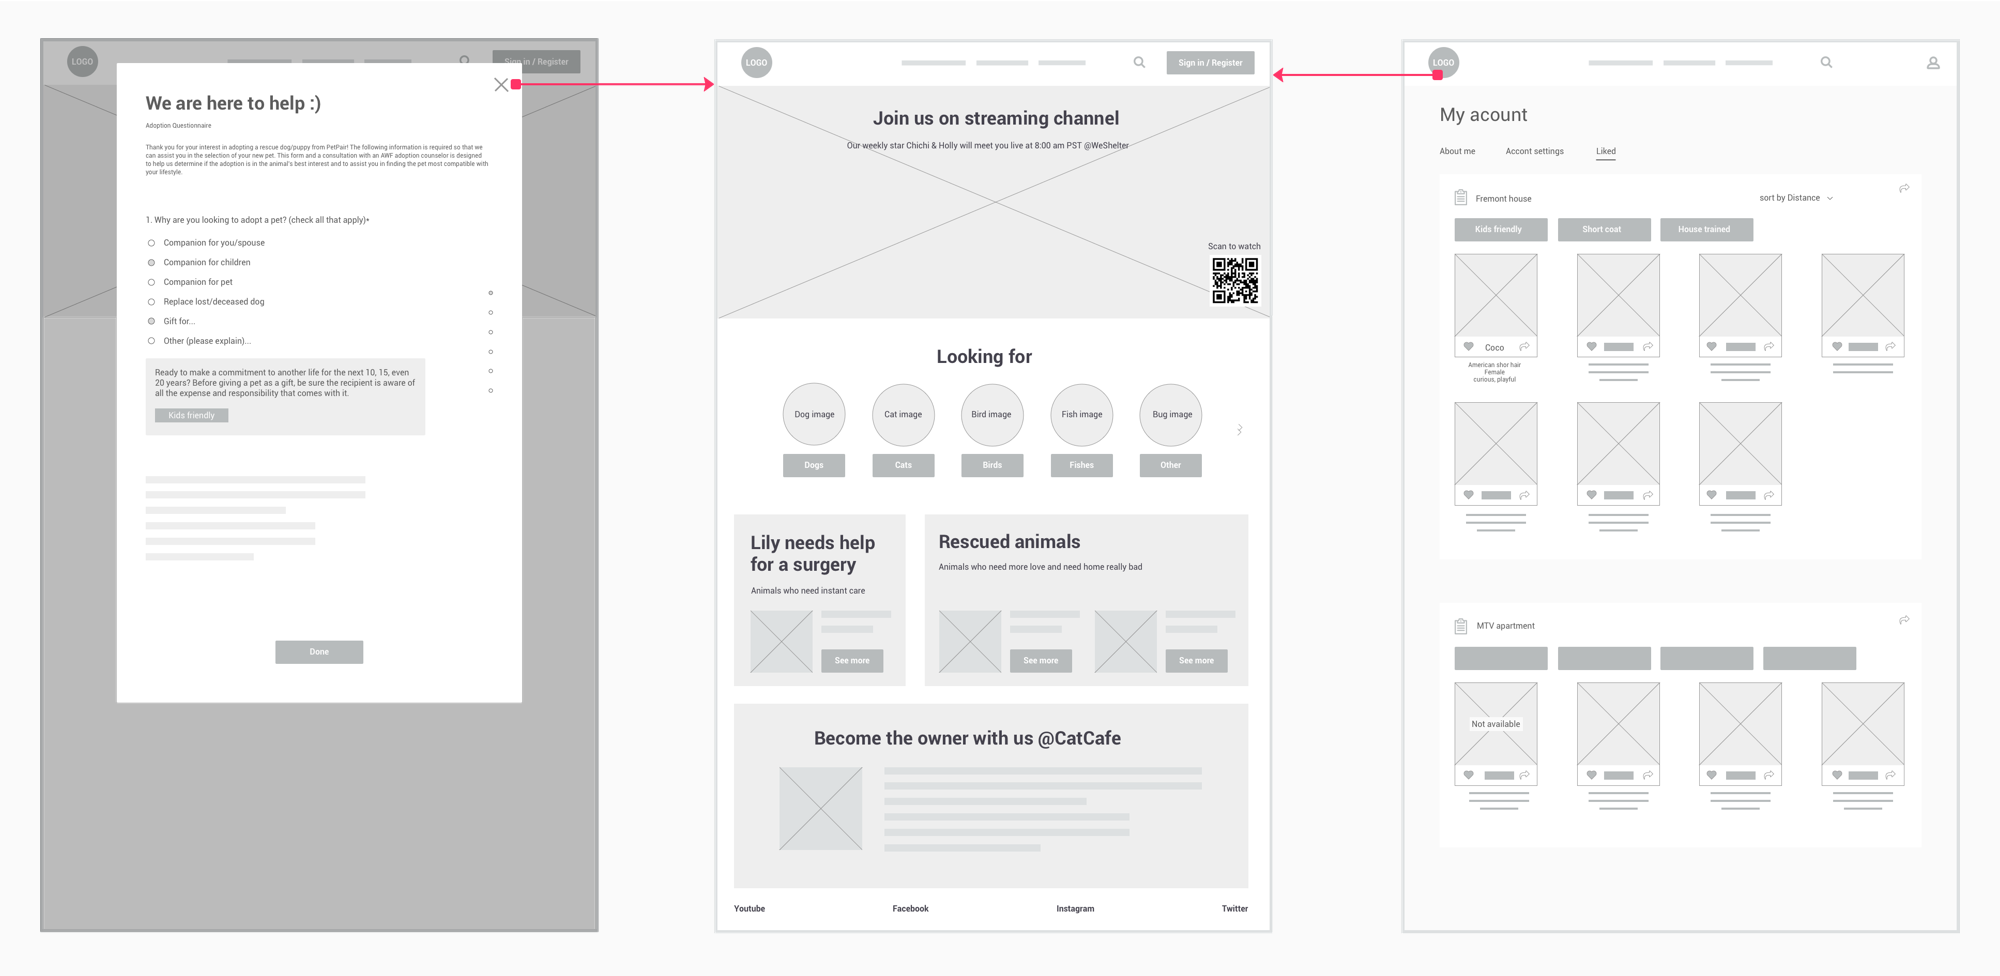
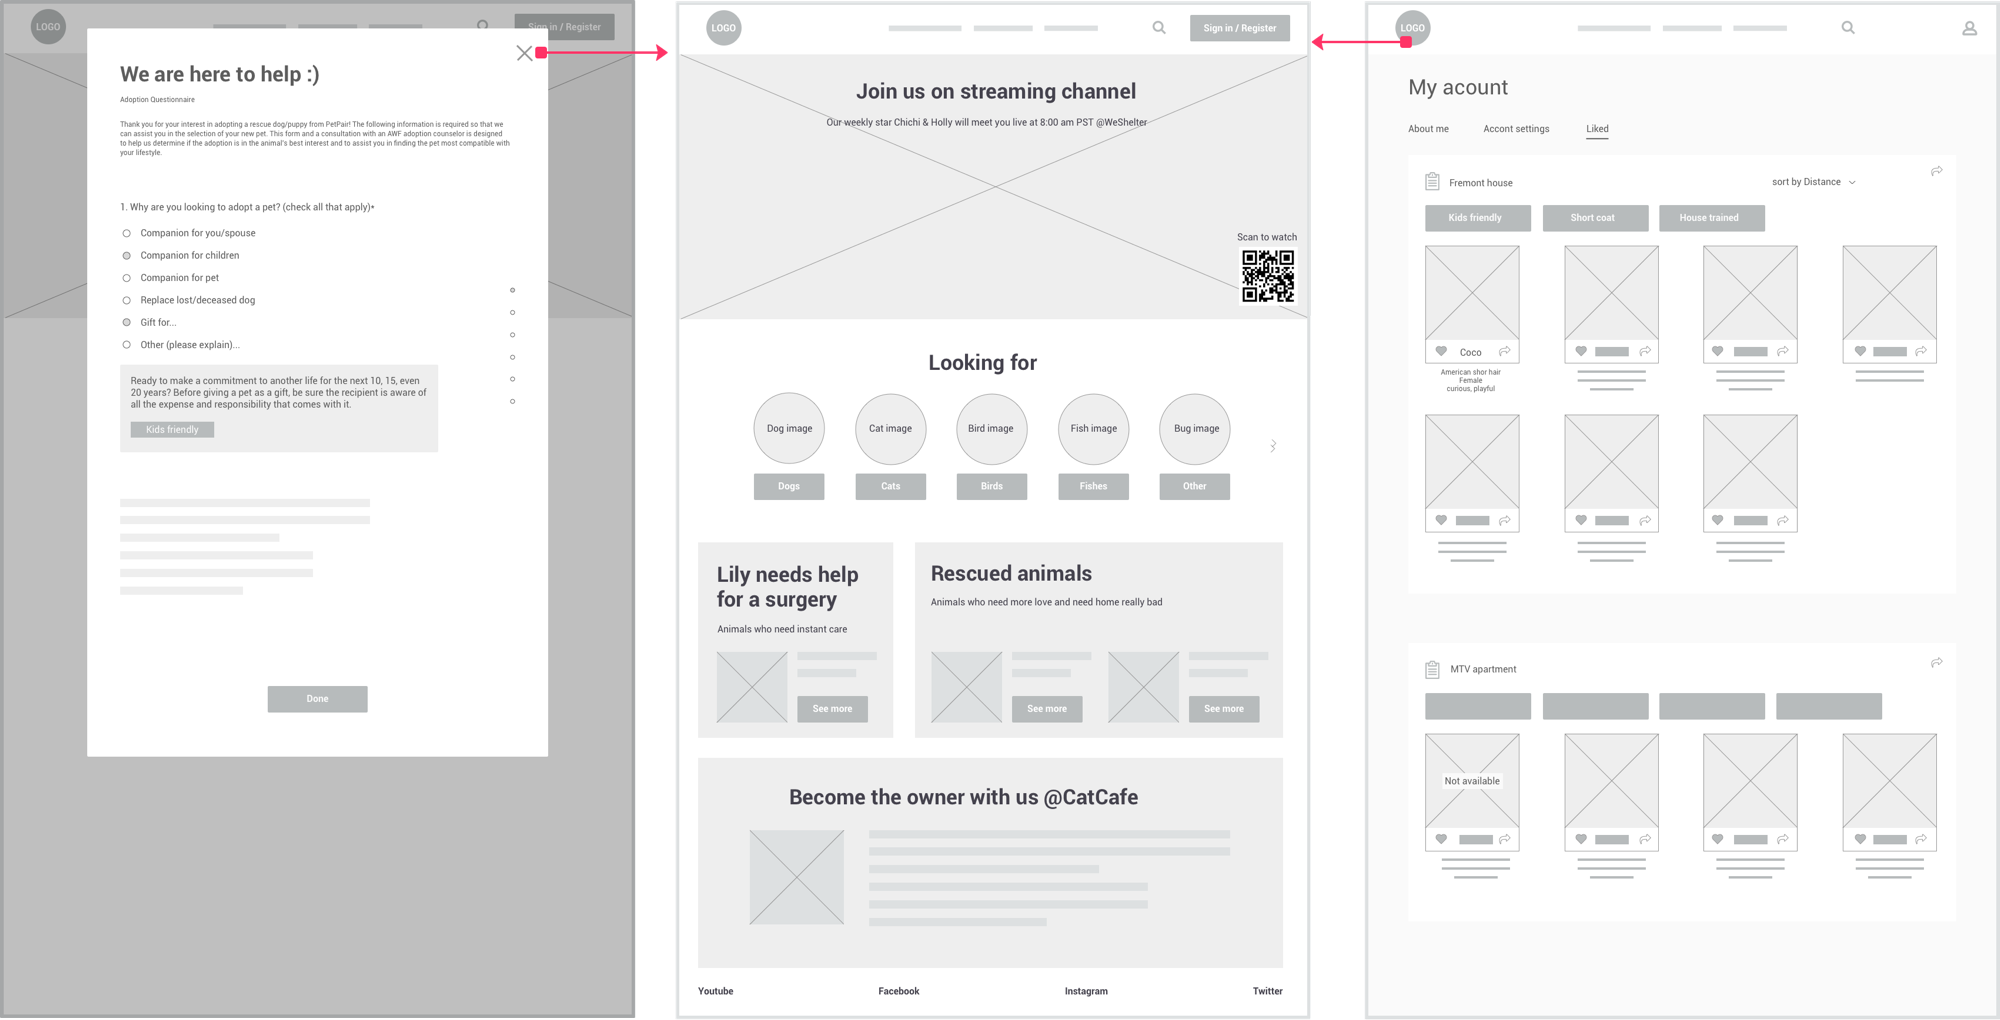
images updated

diff --git a/src/component/Work/petpair.js b/src/component/Work/petpair.js
@@ -199,7 +199,7 @@ Millions of animals are currently in shelters and foster homes awaiting adoption
                   src: 'petpair/triangle@3x.png',
                   alt: 'triangle',
                   style: {
-                    width: '700px'
+                    width: '3000px'
                   }
                 }}
               />
@@ -225,7 +225,7 @@ Millions of animals are currently in shelters and foster homes awaiting adoption
                 zoomImage={{
                   src: 'petpair/sketches@3x.png',
                   style: {
-                    width: '700px'
+                    width: '3000px'
                   }
                 }}
               />
@@ -251,7 +251,7 @@ Millions of animals are currently in shelters and foster homes awaiting adoption
                 zoomImage={{
                   src: 'petpair/how@3x.png',
                   style: {
-                    width: '700px'
+                    width: '3000px'
                   }
                 }}
               />
@@ -275,9 +275,9 @@ Millions of animals are currently in shelters and foster homes awaiting adoption
                   }
                 }}
                 zoomImage={{
-                  src: 'petpair/coco@x.png',
+                  src: 'petpair/coco@3x.png',
                   style: {
-                    width: '700px'
+                    width: '3000px'
                   }
                 }}
               />
@@ -303,7 +303,7 @@ Millions of animals are currently in shelters and foster homes awaiting adoption
                 zoomImage={{
                   src: 'petpair/nana@3x.png',
                   style: {
-                    width: '700px'
+                    width: '3000px'
                   }
                 }}
               />
@@ -370,7 +370,7 @@ Since it will not launch soon, I won’t dig into the metrics too much. But here
                 zoomImage={{
                   src: 'petpair/time@3x.png',
                   style: {
-                    width: '700px'
+                    width: '3000px'
                   }
                 }}
               />
@@ -394,7 +394,7 @@ Since it will not launch soon, I won’t dig into the metrics too much. But here
                 zoomImage={{
                   src: 'petpair/flow@3x.png',
                   style: {
-                    width: '700px'
+                    width: '3000px'
                   }
                 }}
               />
@@ -414,9 +414,9 @@ Since it will not launch soon, I won’t dig into the metrics too much. But here
                   }
                 }}
                 zoomImage={{
-                  src: 'petpair/wireframe-all@2x.png',
+                  src: 'petpair/wireframe-all@3x.png',
                   style: {
-                    width: '700px'
+                    width: '3000px'
                   }
                 }}
               />
@@ -427,21 +427,39 @@ Since it will not launch soon, I won’t dig into the metrics too much. But here
               <p>Walking through <HighLightOnVisible className="highlight-general">as a first time user</HighLightOnVisible> to the website —</p>
               <div className="display-tittle"> 1. Onboarding
               </div>
-              <div className="petpair-project-img-div-long hd">
+              <div className="petpair-project-img-div-long">
+              <div className="petpair-project-img-div-long-elements hd">
               <ImageZoom
                 image={{
-                  src: 'petpair/wireframe-1@2x.png',
+                  src: 'petpair/wireframe-1-1@2x.png',
                   style: {
                     width: '700px'
                   }
                 }}
                 zoomImage={{
-                  src: 'petpair/wireframe-1@2x.png',
+                  src: 'petpair/wireframe-1-1@3x.png',
+                  style: {
+                    width: '3000px'
+                  }
+                }}
+              />
+              </div>
+              <div className="petpair-project-img-div-long-elements hd">
+              <ImageZoom
+                image={{
+                  src: 'petpair/wireframe-1-2@2x.png',
                   style: {
                     width: '700px'
                   }
                 }}
+                zoomImage={{
+                  src: 'petpair/wireframe-1-2@3x.png',
+                  style: {
+                    width: '3000px'
+                  }
+                }}
               />
+              </div>
               </div>
               <p>After entering the homepage, a notification pops up from the bottom. It gives users the welcome and points out what the website is about. It explains why the user should do it and gives the expected time of doing the questionnaire which reduces the negative emotion to take it.</p>
               <p> The questionnaire floats above the website and background greys out to allow the user focus on the questionnaire. To get the user start without feeling overwhelmed, the questionnaire has several most important questions.(What and how many questions will be decided after more research) Each time the user selects an option, related filters are displayed and added to future search or tips are shown below. The instant interaction helps the user understand why the question exists and what to expect in the situation. All the questions should be straightforward, but if the user need some time to think and come back to the question later, s/he can use the process indicator to anchor to the question. </p>
@@ -456,21 +474,39 @@ Since it will not launch soon, I won’t dig into the metrics too much. But here
 
               <div className="display-tittle"> 2. Exploring
               </div>
-              <div className="petpair-project-img-div-long hd">
+              <div className="petpair-project-img-div-long">
+              <div className="petpair-project-img-div-long-elements hd">
               <ImageZoom
                 image={{
-                  src: 'petpair/wireframe-2@2x.png',
+                  src: 'petpair/wireframe-2-1@2x.png',
                   style: {
                     width: '700px'
                   }
                 }}
                 zoomImage={{
-                  src: 'petpair/wireframe-2@2x.png',
+                  src: 'petpair/wireframe-2-1@3x.png',
+                  style: {
+                    width: '3000px'
+                  }
+                }}
+              />
+              </div>
+              <div className="petpair-project-img-div-long-elements hd">
+              <ImageZoom
+                image={{
+                  src: 'petpair/wireframe-2-2@2x.png',
                   style: {
                     width: '700px'
                   }
                 }}
+                zoomImage={{
+                  src: 'petpair/wireframe-2-2@3x.png',
+                  style: {
+                    width: '3000px'
+                  }
+                }}
               />
+              </div>
               </div>
               <p>On the explore view, the filters created during the questionnaire are displayed. (Pet’s turn to select the user is done.) The user can also add more filters using the dropdown menu above. (Now it’s the user’s turn.) If the user is not sure about what filter s/he should add, s/he can click “not sure” button to take a more detailed questionnaire. Questions are sorted for different purpose: beginners, amateurs and pros. (A fuzzy search feature could be added as a list view menu in the future.) The filters allow the user to play around and save the results for the future. The user can change distance to refind the pets or change the sorting method to redisplay the pets. If there is no match or very few matches, some recommended pets are displayed since the user might be willing to compromise their filters to a certain extent.</p>
               <p> Each card shows the summary information of the pet, highlighting the characteristic. A video will be played after hovering on the pet profile picture, so the user will get a prominent idea about the shape, pattern, status of the pet. S/he can save the pet if s/he likes it.</p>
@@ -483,21 +519,39 @@ Since it will not launch soon, I won’t dig into the metrics too much. But here
 
               <div className="display-tittle"> 3. Collaborating
               </div>
-              <div className="petpair-project-img-div-long hd">
+              <div className="petpair-project-img-div-long">
+              <div className="petpair-project-img-div-long-elements hd">
               <ImageZoom
                 image={{
-                  src: 'petpair/wireframe-3@2x.png',
+                  src: 'petpair/wireframe-3-1@2x.png',
                   style: {
                     width: '700px'
                   }
                 }}
                 zoomImage={{
-                  src: 'petpair/wireframe-3@2x.png',
+                  src: 'petpair/wireframe-3-1@3x.png',
+                  style: {
+                    width: '3000px'
+                  }
+                }}
+              />
+              </div>
+              <div className="petpair-project-img-div-long-elements hd">
+              <ImageZoom
+                image={{
+                  src: 'petpair/wireframe-3-2@2x.png',
                   style: {
                     width: '700px'
                   }
                 }}
+                zoomImage={{
+                  src: 'petpair/wireframe-3-2@3x.png',
+                  style: {
+                    width: '3000px'
+                  }
+                }}
               />
+              </div>
               </div>
               <p>Each collection is under one questionnaire with specific filters. Half of my interviewers have considered to have another pet in the future. If they move from an apartment to an house, their considerations will change, however, with the same account, they can edit filters from the past or plan to adopt for the future.</p>
               <p>The user can share collections via email, everyone who will live with the pet has the right and responsibility to know about it. The final vote result will show on the user’s account.</p>
@@ -518,9 +572,9 @@ Since it will not launch soon, I won’t dig into the metrics too much. But here
                   }
                 }}
                 zoomImage={{
-                  src: 'petpair/wireframe-4@hd.png',
+                  src: 'petpair/wireframe-4@3x.png',
                   style: {
-                    width: '700px'
+                    width: '3000px'
                   }
                 }}
               />
@@ -554,7 +608,7 @@ Since it will not launch soon, I won’t dig into the metrics too much. But here
                 zoomImage={{
                   src: 'petpair/educational@hd.png',
                   style: {
-                    width: '700px'
+                    width: '3000px'
                   }
                 }}
               />
@@ -574,7 +628,7 @@ Since it will not launch soon, I won’t dig into the metrics too much. But here
                 zoomImage={{
                   src: 'petpair/collabration@hd.png',
                   style: {
-                    width: '700px'
+                    width: '3000px'
                   }
                 }}
               />
@@ -583,15 +637,15 @@ Since it will not launch soon, I won’t dig into the metrics too much. But here
               <div className="petpair-project-img-div-long hd">
               <ImageZoom
                 image={{
-                  src: 'petpair/homepage@2x.png',
+                  src: 'petpair/home@2x.png',
                   style: {
                     width: '700px'
                   }
                 }}
                 zoomImage={{
-                  src: 'petpair/homepage@2x.png',
+                  src: 'petpair/home@3x.png',
                   style: {
-                    width: '700px'
+                    width: '3000px'
                   }
                 }}
               />

diff --git a/src/component/Work/css/work.css b/src/component/Work/css/work.css
@@ -260,6 +260,11 @@ h5{
   direction: rtl; 
   position: relative; 
 }
+.petpair-project-img-div-long-elements{
+  overflow: visible;
+  direction: rtl; 
+  position: relative; 
+}
 .main {
 	margin-left: 406px;
 	width:700px;
